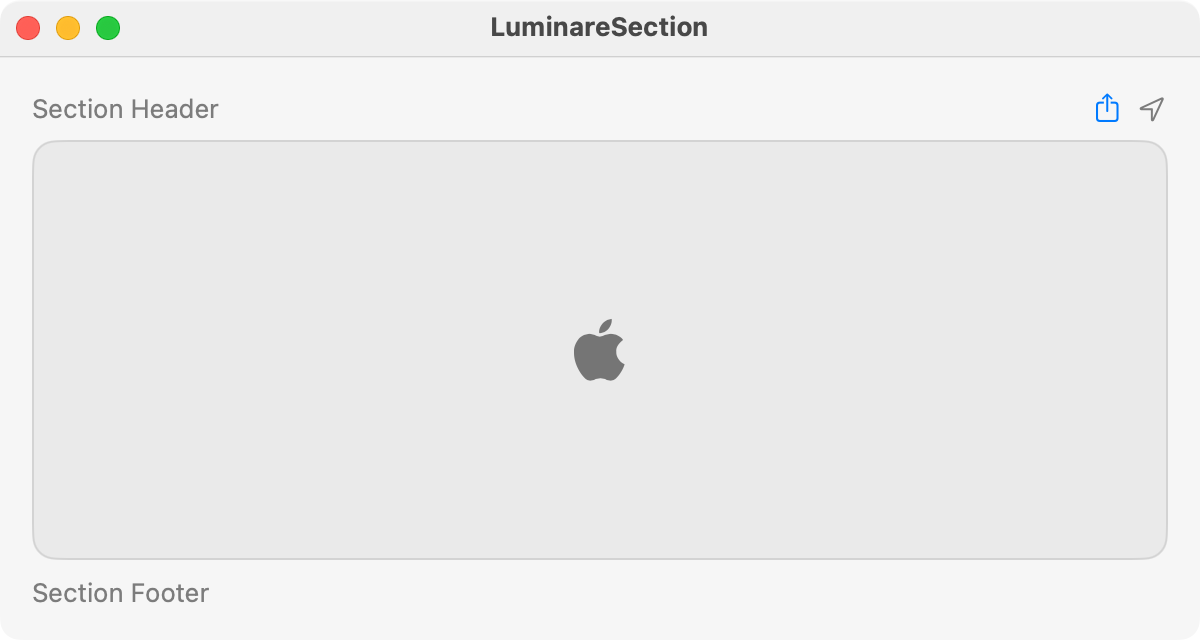
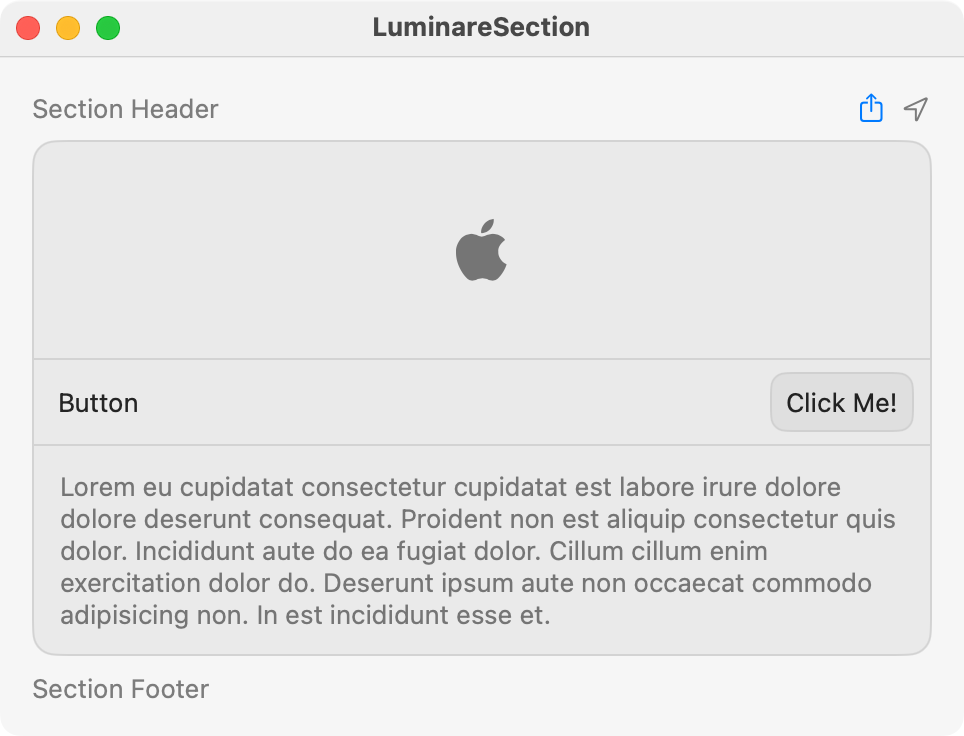
Update previews screenshots

diff --git a/Sources/Luminare/Utilities/Previews/LuminareButtonStyle+Previews.swift b/Sources/Luminare/Utilities/Previews/LuminareButtonStyle+Previews.swift
@@ -1,0 +1,95 @@
+//
+//  LuminareButtonStyle+Previews.swift
+//
+//
+//  Created by KrLite on 2024/11/4.
+//
+
+import SwiftUI
+
+#Preview("LuminareButtonStyle") {
+    VStack {
+        LuminareSection {
+            Button {
+            } label: {
+                HStack {
+                    Image(systemName: "globe.americas.fill")
+                        .resizable()
+                        .aspectRatio(contentMode: .fit)
+                        .frame(height: 60)
+                        .foregroundStyle(.tertiary)
+                    
+                    VStack(alignment: .leading, spacing: 2) {
+                        Text("Cosmetic")
+                            .fontWeight(.medium)
+                        
+                        Text("Custom Layout")
+                            .font(.caption)
+                            .foregroundStyle(.secondary)
+                    }
+                    
+                    Spacer()
+                }
+                .padding(4)
+            }
+            .buttonStyle(LuminareCosmeticButtonStyle(.init(systemName: "star.fill")))
+            .frame(height: 72)
+            
+            Button {
+            } label: {
+                HStack {
+                    Image(systemName: "globe.central.south.asia.fill")
+                        .resizable()
+                        .aspectRatio(contentMode: .fit)
+                        .frame(height: 60)
+                        .foregroundStyle(.tertiary)
+                    
+                    VStack(alignment: .leading, spacing: 2) {
+                        Text("Cosmetic Hovering")
+                            .fontWeight(.medium)
+                        
+                        Text("Custom Layout")
+                            .font(.caption)
+                            .foregroundStyle(.secondary)
+                    }
+                    
+                    Spacer()
+                }
+                .padding(4)
+            }
+            .buttonStyle(LuminareCosmeticButtonStyle(.init(systemName: "star.fill"), isHovering: true))
+            .frame(height: 72)
+        }
+        
+        LuminareSection {
+            HStack {
+                Button("Prominent Tinted") {
+                }
+                .buttonStyle(LuminareProminentButtonStyle())
+                .tint(.purple)
+                
+                Button("Prominent Tinted") {
+                }
+                .buttonStyle(LuminareProminentButtonStyle())
+                .tint(.teal)
+                
+                Button("Prominent") {
+                }
+                .buttonStyle(LuminareProminentButtonStyle())
+            }
+            .frame(height: 40)
+            
+            HStack {
+                Button("Normal") {
+                }
+                .buttonStyle(LuminareButtonStyle())
+                
+                Button("Destructive") {
+                }
+                .buttonStyle(LuminareDestructiveButtonStyle())
+            }
+            .frame(height: 40)
+        }
+    }
+    .padding()
+}

diff --git a/Sources/Luminare/Components/Auxiliary/LuminareButtonStyle.swift b/Sources/Luminare/Components/Auxiliary/LuminareButtonStyle.swift
@@ -13,8 +13,8 @@ public struct LuminareButtonStyle: ButtonStyle {
     @Environment(\.isEnabled) private var isEnabled
     @Environment(\.luminareAnimationFast) private var animationFast
     
-    let innerCornerRadius: CGFloat = 2
-    let elementMinHeight: CGFloat = 34
+    private let innerCornerRadius: CGFloat = 2
+    private let elementMinHeight: CGFloat = 34
     
     @State private var isHovering: Bool = false
 
@@ -48,10 +48,10 @@ public struct LuminareDestructiveButtonStyle: ButtonStyle {
     @Environment(\.isEnabled) private var isEnabled
     @Environment(\.luminareAnimationFast) private var animationFast
     
-    let innerCornerRadius: CGFloat = 2
-    let elementMinHeight: CGFloat = 34
+    private let innerCornerRadius: CGFloat = 2
+    private let elementMinHeight: CGFloat = 34
     
-    @State var isHovering: Bool = false
+    @State private var isHovering: Bool = false
 
     public init() {}
 
@@ -81,10 +81,10 @@ public struct LuminareProminentButtonStyle: ButtonStyle {
     @Environment(\.isEnabled) private var isEnabled
     @Environment(\.luminareAnimationFast) private var animationFast
     
-    let innerCornerRadius: CGFloat = 2
-    let elementMinHeight: CGFloat = 34
+    private let innerCornerRadius: CGFloat = 2
+    private let elementMinHeight: CGFloat = 34
     
-    @State var isHovering: Bool = false
+    @State private var isHovering: Bool = false
     
     public init() {}
     
@@ -138,14 +138,21 @@ public struct LuminareCosmeticButtonStyle: ButtonStyle {
     @Environment(\.isEnabled) private var isEnabled: Bool
     @Environment(\.luminareAnimationFast) private var animationFast
     
-    let innerCornerRadius: CGFloat = 2
-    let elementMinHeight: CGFloat = 34
+    private let innerCornerRadius: CGFloat = 2
+    private let elementMinHeight: CGFloat = 34
     
-    @State var isHovering: Bool = false
-    let icon: Image
+    @State private var isHovering: Bool
+    private let icon: Image
 
     public init(_ icon: Image) {
         self.icon = icon
+        self.isHovering = false
+    }
+    
+    // debug
+    init(_ icon: Image, isHovering: Bool = false) {
+        self.icon = icon
+        self.isHovering = isHovering
     }
 
     public func makeBody(configuration: Configuration) -> some View {

diff --git a/Sources/Luminare/Components/LuminareSection.swift b/Sources/Luminare/Components/LuminareSection.swift
@@ -259,7 +259,24 @@ public struct LuminareSection<Header, Content, Footer>: View where Header: View,
                 .frame(height: 32)
                 .foregroundStyle(.secondary)
         }
-        .frame(height: 200)
+        .frame(height: 100)
+        
+        LuminareCompose("Button", reducesTrailingSpace: true) {
+            Button {
+            } label: {
+                Text("Click Me!")
+                    .frame(height: 30)
+                    .padding(.horizontal, 8)
+            }
+        }
+        
+        Text(
+"""
+Lorem eu cupidatat consectetur cupidatat est labore irure dolore dolore deserunt consequat. Proident non est aliquip consectetur quis dolor. Incididunt aute do ea fugiat dolor. Cillum cillum enim exercitation dolor do. Deserunt ipsum aute non occaecat commodo adipisicing non. In est incididunt esse et.
+"""
+        )
+        .padding(8)
+        .foregroundStyle(.secondary)
     } header: {
         HStack(alignment: .bottom) {
             Text("Section Header")
@@ -287,5 +304,7 @@ public struct LuminareSection<Header, Content, Footer>: View where Header: View,
             Spacer()
         }
     }
+    .frame(width: 450)
+    .buttonStyle(LuminareCompactButtonStyle(extraCompact: true))
     .padding()
 }
